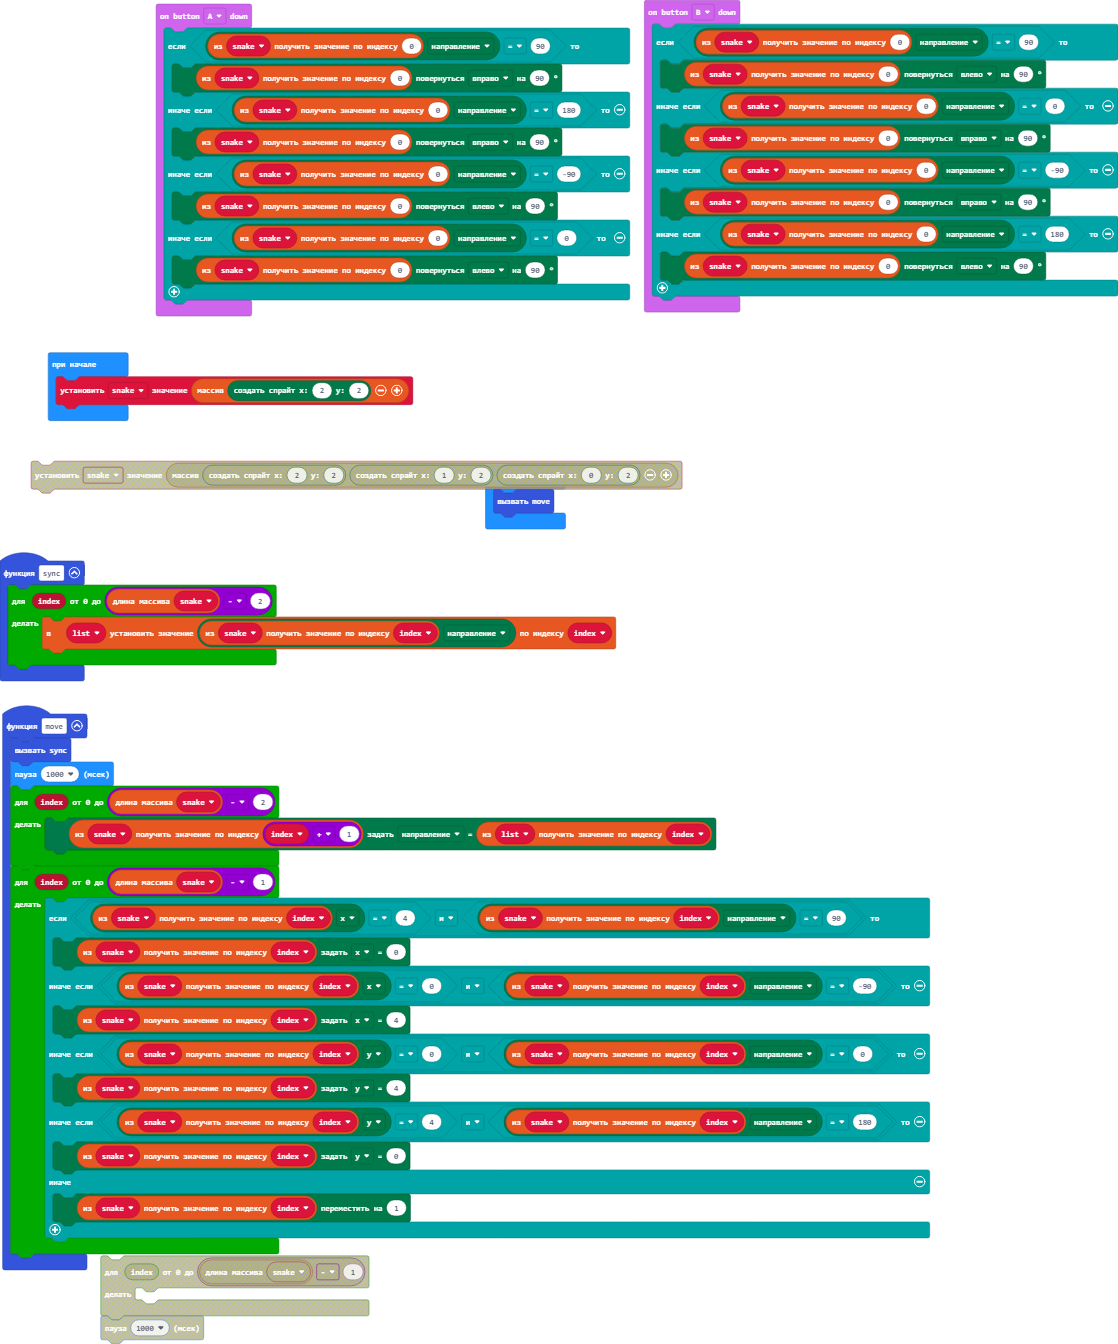
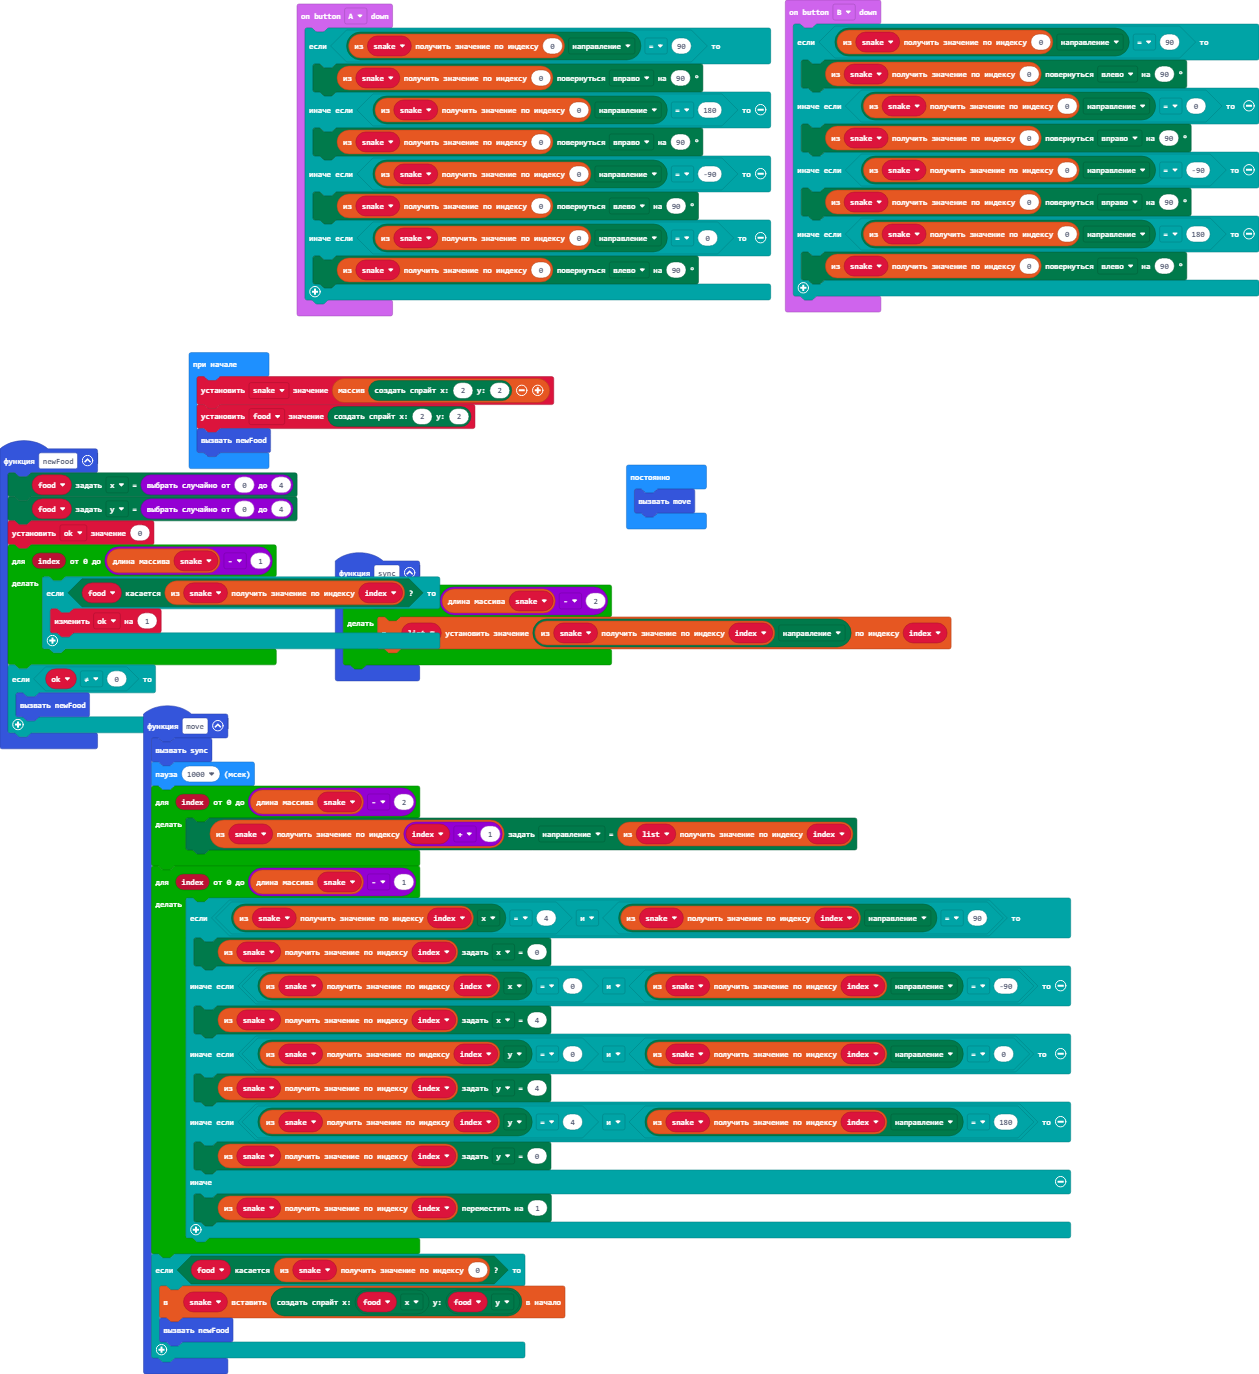
feed

diff --git a/main.ts b/main.ts
@@ -14,6 +14,19 @@ function sync () {
         list[index] = snake[index].get(LedSpriteProperty.Direction)
     }
 }
+function newFood () {
+    food.set(LedSpriteProperty.X, randint(0, 4))
+    food.set(LedSpriteProperty.Y, randint(0, 4))
+    ok = 0
+    for (let index = 0; index <= snake.length - 1; index++) {
+        if (food.isTouching(snake[index])) {
+            ok += 1
+        }
+    }
+    if (ok != 0) {
+        newFood()
+    }
+}
 buttonClicks.onButtonDown(buttonClicks.AorB.A, function () {
     if (snake[0].get(LedSpriteProperty.Direction) == 90) {
         snake[0].turn(Direction.Right, 90)
@@ -44,10 +57,18 @@ function move () {
             snake[index].move(1)
         }
     }
+    if (food.isTouching(snake[0])) {
+        snake.unshift(game.createSprite(food.get(LedSpriteProperty.X), food.get(LedSpriteProperty.Y)))
+        newFood()
+    }
 }
+let ok = 0
 let list: number[] = []
+let food: game.LedSprite = null
 let snake: game.LedSprite[] = []
 snake = [game.createSprite(2, 2)]
+food = game.createSprite(2, 2)
+newFood()
 basic.forever(function () {
     move()
 })
